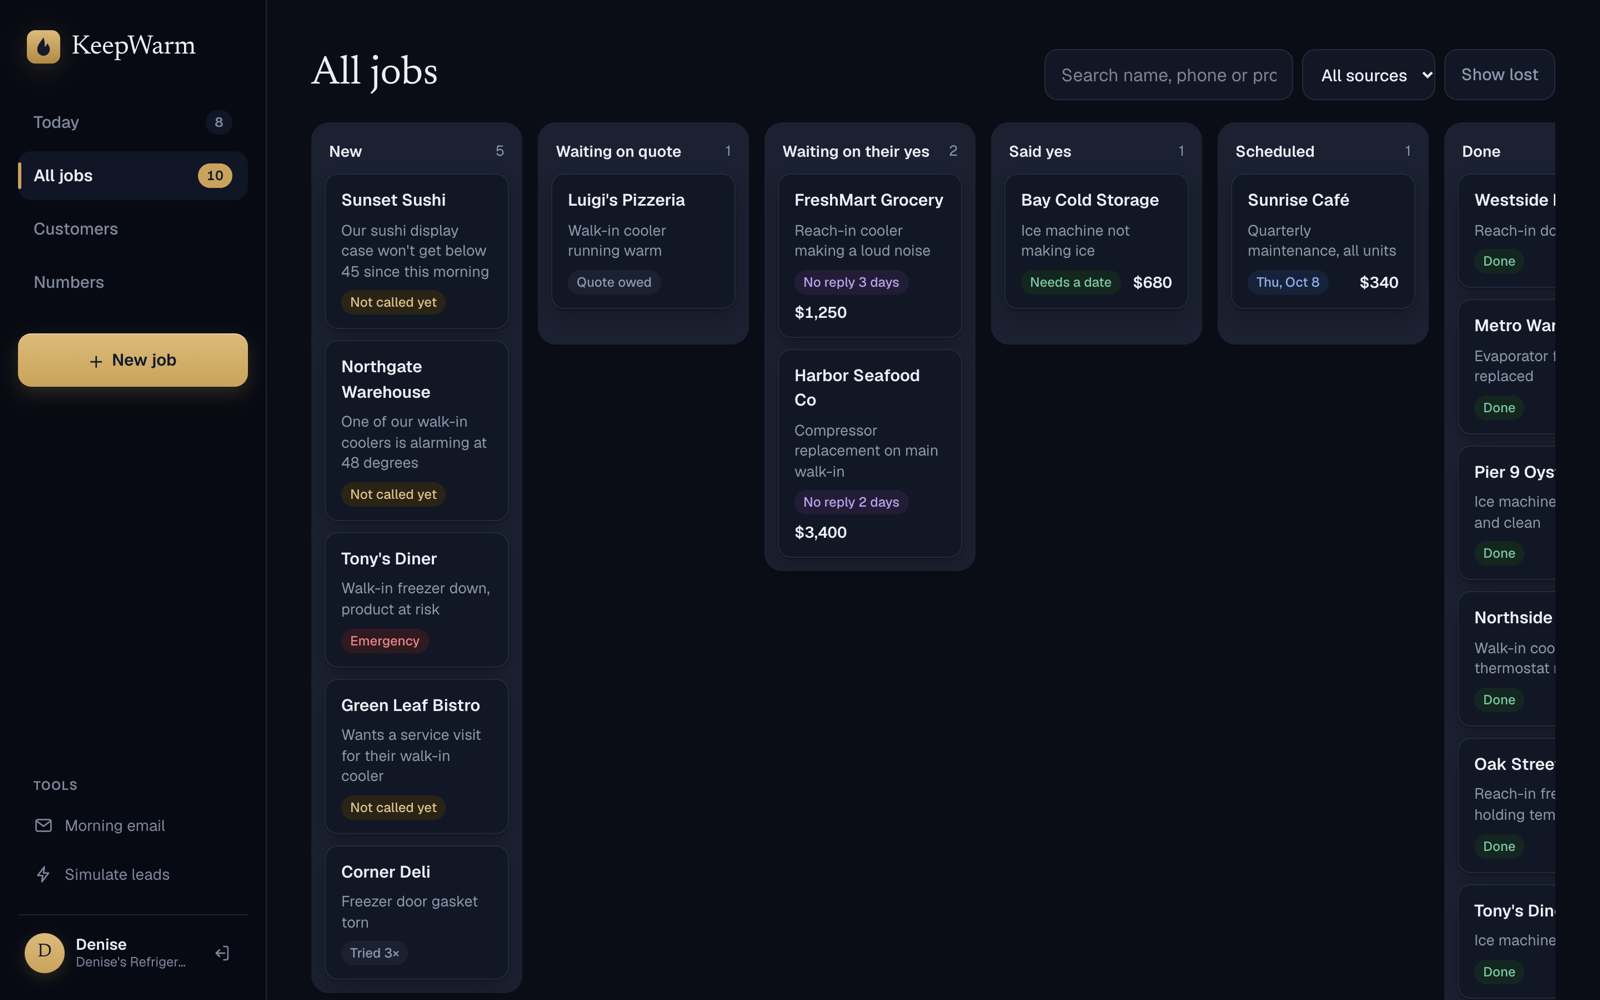
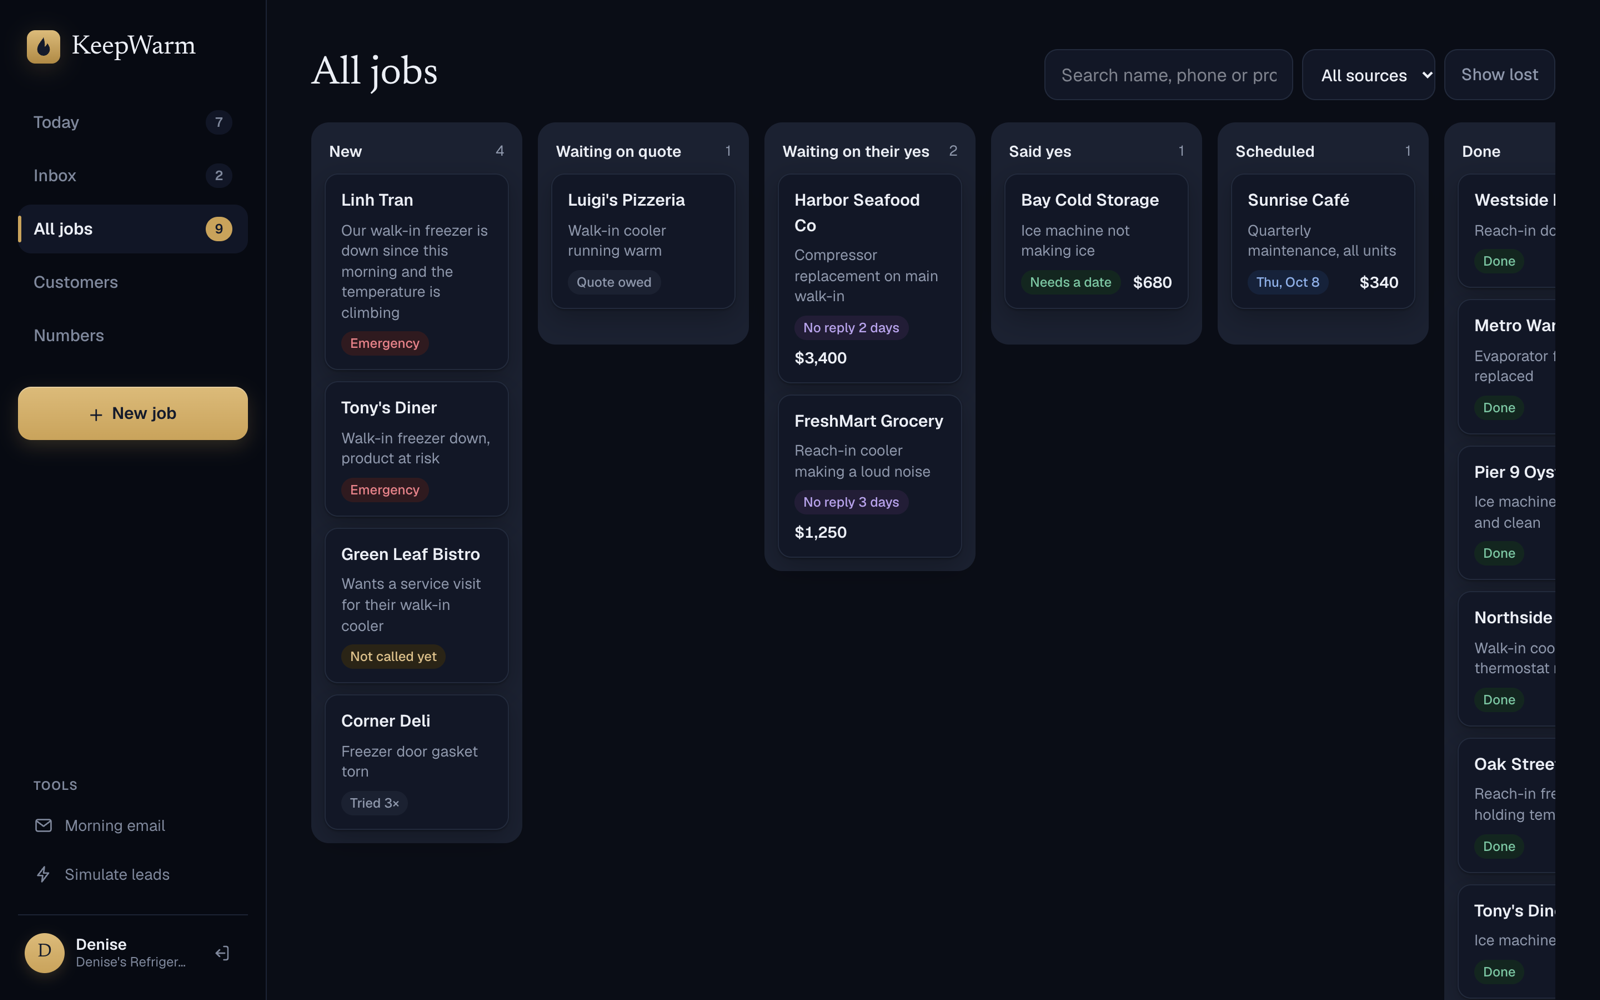
README: Gmail inbox, new screenshot gallery (inbox, job detail, customer profile), Gmail setup guide

diff --git a/README.md b/README.md
@@ -2,13 +2,17 @@
 
 **Keep every lead warm.** A lead and follow-up tracker for small field-service businesses, starting with commercial refrigeration repair.
 
-Job requests arrive by phone, text, email, website form and a paper notebook. KeepWarm puts them all in one list, tracks where each job stands, and shows the owner one thing each morning: **who to call today**. A job stays on that list until it is done or lost, so no request goes cold because it was forgotten.
+Job requests arrive by phone, text, email, website form and a paper notebook. KeepWarm puts them all in one list, tracks where each job stands, and shows the owner one thing each morning: **who to call today**. A job stays on that list until it is done or lost, so no request goes cold because it was forgotten. Connect Gmail and enquiries from the owner's inbox arrive on their own, already filled in.
 
-**Live demo:** [keepwarm.vercel.app](https://keepwarm.vercel.app) (the passcode is filled in on the sign-in page). Use **Simulate leads** in the sidebar to send in a web form, email, customer text or missed call and watch it show up on Today.
+**Live demo:** [keepwarm.vercel.app](https://keepwarm.vercel.app) (the passcode is filled in on the sign-in page). Use **Simulate leads** in the sidebar to send in a web form, email, customer text or missed call, or **Inbox → Load sample emails** to try the email review flow.
 
 ![Today screen](docs/screenshots/today.png)
 
-| All jobs (dark mode) | Numbers (dark mode) | On a phone |
+| Email inbox | Job detail | Customer profile |
+|---|---|---|
+| ![Inbox with two email enquiries to review](docs/screenshots/inbox.png) | ![Job detail with a ready-to-send text](docs/screenshots/detail.png) | ![Customer profile with history and pinned note](docs/screenshots/customer.png) |
+
+| All jobs | Numbers | On a phone |
 |---|---|---|
 | ![All jobs board](docs/screenshots/jobs.png) | ![Numbers](docs/screenshots/numbers.png) | ![Today on a phone](docs/screenshots/today-mobile.png) |
 
@@ -89,7 +93,7 @@ Thresholds live in one place (`lib/config.ts`). "Today" is calculated in the bus
 
 ### Where AI is used
 
-AI is used for one thing: **turning a messy message into fields** (`lib/extract.ts`). With `ANTHROPIC_API_KEY` set, Claude Haiku 4.5 returns name, business, phone, email, address, a short problem summary, equipment, urgency, and whether the message is a job request at all. It uses structured outputs at temperature 0, and the result is validated with zod.
+AI is used for one thing: **turning a messy message into fields** (`lib/extract.ts`), whether it's a text, a voicemail transcript, a pasted note or an email from her inbox. With `ANTHROPIC_API_KEY` set, Claude Haiku 4.5 returns name, business, phone, email, address, a short problem summary, equipment, urgency, and whether the message is a job request at all. It uses structured outputs at temperature 0, and the result is validated with zod.
 
 Without a key, or if the call fails, times out or returns invalid data, a rule-based extractor (`lib/extract-rules.ts`) takes over, so a lead is never dropped because a model call failed. **The live demo runs on the rule-based extractor.**
 
@@ -138,9 +142,18 @@ All optional; see [`.env.example`](.env.example).
 ### Deploying to Vercel
 
 1. Import the repository in Vercel and add a Neon database from the Storage tab (it sets `DATABASE_URL`).
-2. Set `APP_PASSCODE`, `INBOUND_TOKEN` and `CRON_SECRET`, plus the Anthropic and Resend variables if wanted.
+2. Set `APP_PASSCODE`, `INBOUND_TOKEN`, `CRON_SECRET` and `APP_URL`, plus the Anthropic and Resend variables if wanted.
 3. Deploy. The build applies migrations. Load demo data once with `DATABASE_URL=… npm run seed`.
-4. The cron in `vercel.json` sends the morning email daily at 12:00 UTC.
+4. The cron in `vercel.json` checks Gmail and sends the morning email daily at 12:00 UTC.
+
+#### Connecting Gmail (optional)
+
+1. In [Google Cloud](https://console.cloud.google.com), create a project and enable the **Gmail API**.
+2. Under **Google Auth Platform**, set up the consent screen (External). While the app is in *Testing*, add each mailbox you'll connect under **Audience → Test users**.
+3. Create an OAuth client of type **Web application** with the redirect URI `<APP_URL>/api/gmail/callback`.
+4. Set `GOOGLE_CLIENT_ID` and `GOOGLE_CLIENT_SECRET` in Vercel and redeploy, then use **Inbox → Connect Gmail**.
+
+Access is read-only (`gmail.readonly`). The refresh token is stored encrypted, and emails that aren't enquiries are never stored. Publishing the app to more than 100 users requires Google's verification for this scope.
 
 ### Tests
 
